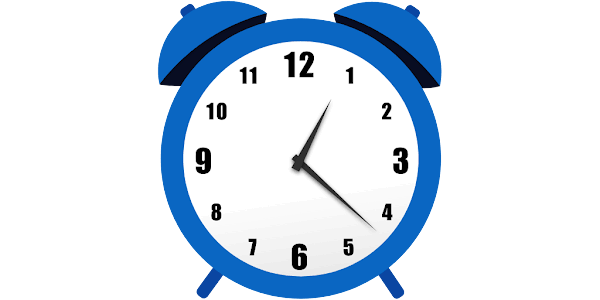
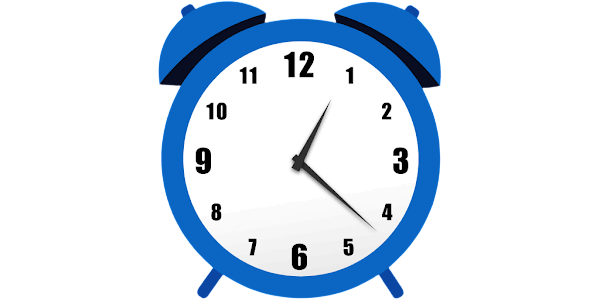
시계 이미지 배경 투명화 및 앱 박스 스타일 추가

diff --git a/style.css b/style.css
@@ -44,6 +44,11 @@ body {
   display: flex;
   flex-direction: column;
   gap: 20px;
+  background: var(--card);
+  border: 1px solid var(--border);
+  border-radius: 20px;
+  padding: 16px;
+  box-shadow: 0 12px 32px rgba(0, 0, 0, 0.08);
 }
 
 .clock {